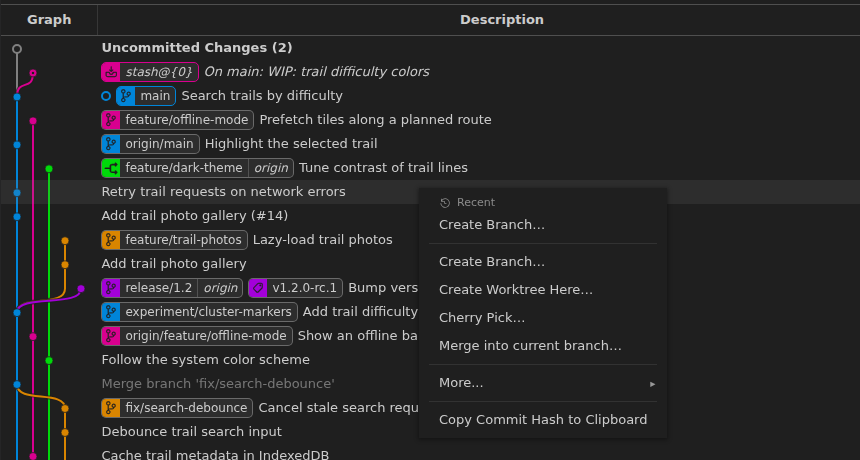
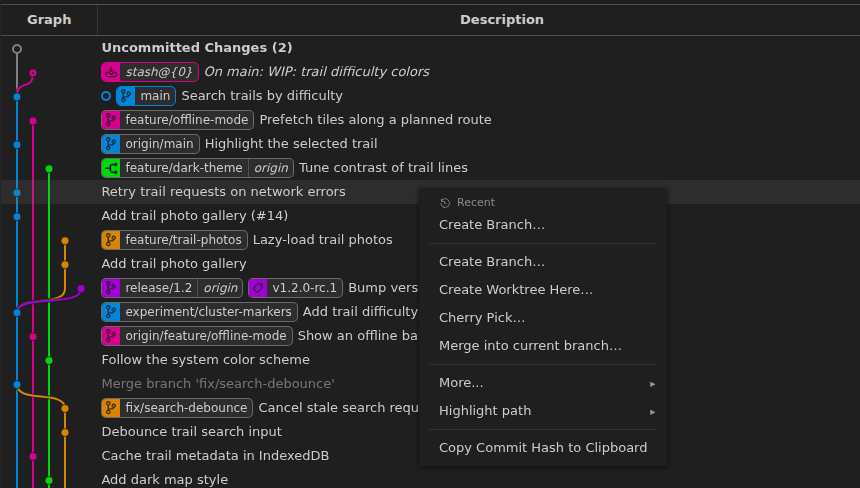
docs: show Highlight path in the README menu captures
- Recapture commit-actions.png, worktree-menu.png and hero.gif so the commit and branch label menus include the Highlight path submenu
- Grow the commit menu crop height from 460 to 488 px in render.sh so the longer menu is not cut off at the bottom
- Mention the Highlight path submenu in the alt text of the commit menu image

diff --git a/README.md b/README.md
@@ -81,7 +81,7 @@ Select a commit to inspect its files and diffs, or Ctrl/Cmd+click a second commi
 
 Right-click commits, branches, tags, stash entries, or uncommitted changes to access the actions available for that item.
 
-![Commit context menu with a Recent section and a More submenu](./resources/screenshots/commit-actions.png)
+![Commit context menu with a Recent section, a More submenu, and a Highlight path submenu](./resources/screenshots/commit-actions.png)
 
 - Checkout, cherry-pick, merge, rebase, create branches, manage tags, and apply or pop stashes.
 - Pull and push the current branch, including choosing an upstream when one has not been configured. Fetch automatically prunes stale remote-tracking references.
